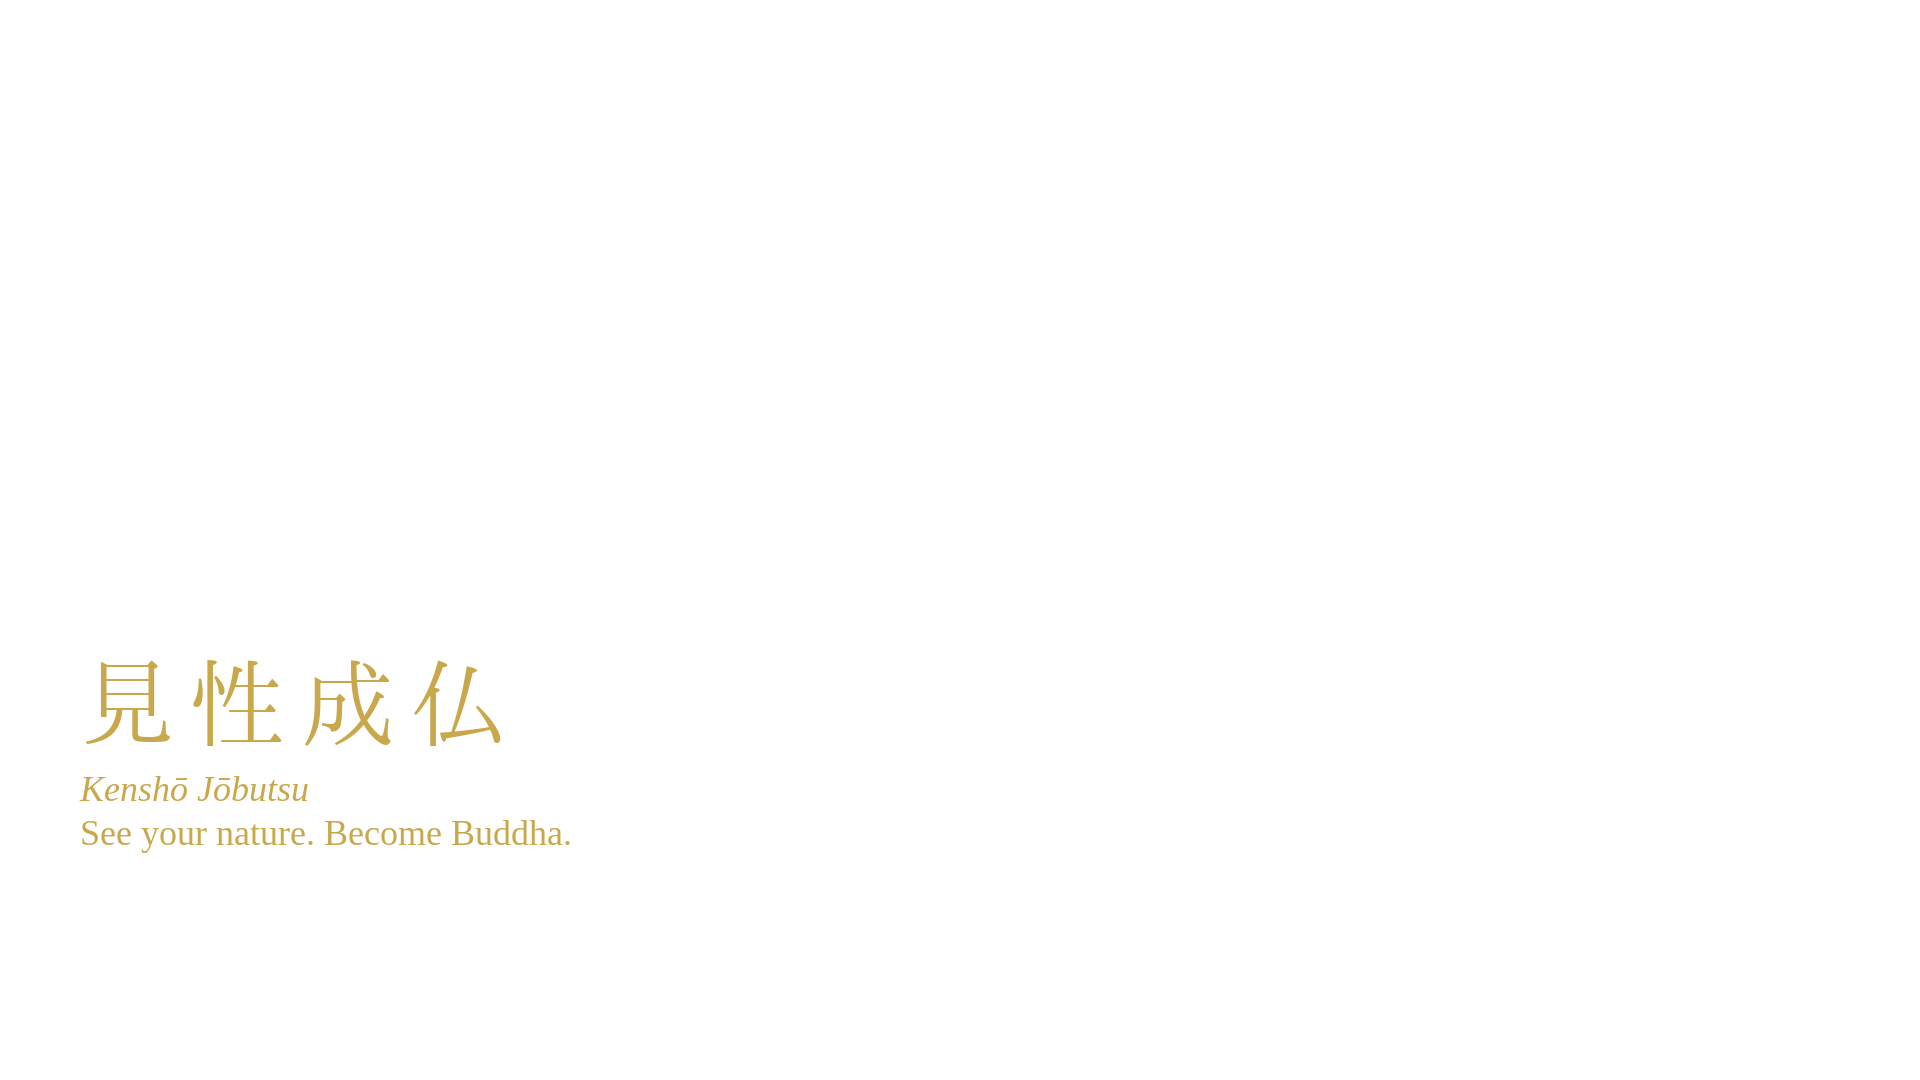
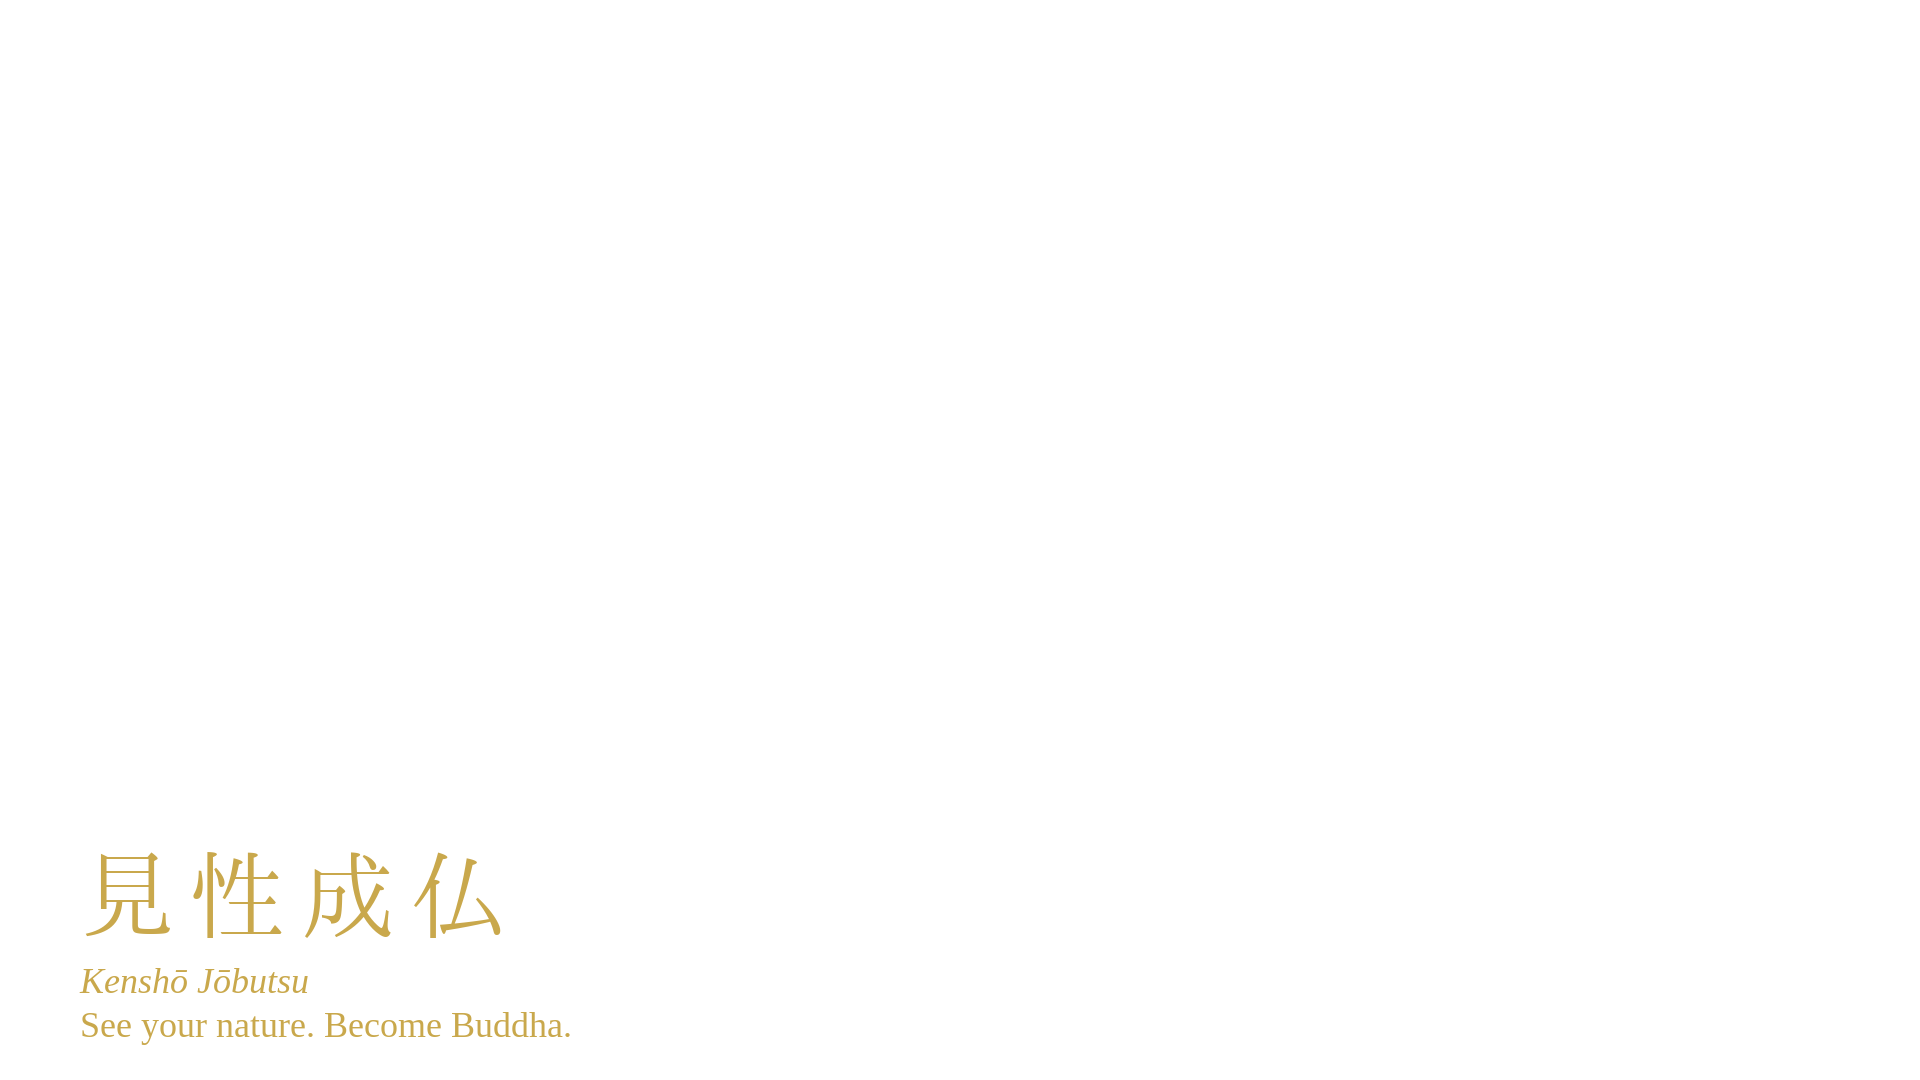
SATORI overlay: move text to bottom-left over rock for legibility
Anchor moved from y=660 → y=852. Text now sits in the lower-left
corner over the dark cliff rock area where it reads cleanly against
the dark stone, instead of floating over the bright cloud sea.

Claude-Session: https://claude.ai/code/session_014rUxCAgr4C7iAmMHbP4fFt

Changed region(s): [[0.0312, 0.6111, 0.3125, 0.9778]]

diff --git a/stillwave/assets/satori-compose-overlay.py b/stillwave/assets/satori-compose-overlay.py
@@ -32,9 +32,9 @@ KANJI_SIZE   = 96
 ROMAJI_SIZE  = 36
 ENGLISH_SIZE = 36
 
-# Lower-left anchor (same zone as tenchi-ichinyo)
+# Bottom-left anchor — over the dark rock area for max legibility
 LEFT_MARGIN = 80
-KANJI_Y     = 660
+KANJI_Y     = 852
 ROMAJI_Y    = KANJI_Y + KANJI_SIZE + 12
 ENGLISH_Y   = ROMAJI_Y + ROMAJI_SIZE + 8
 
